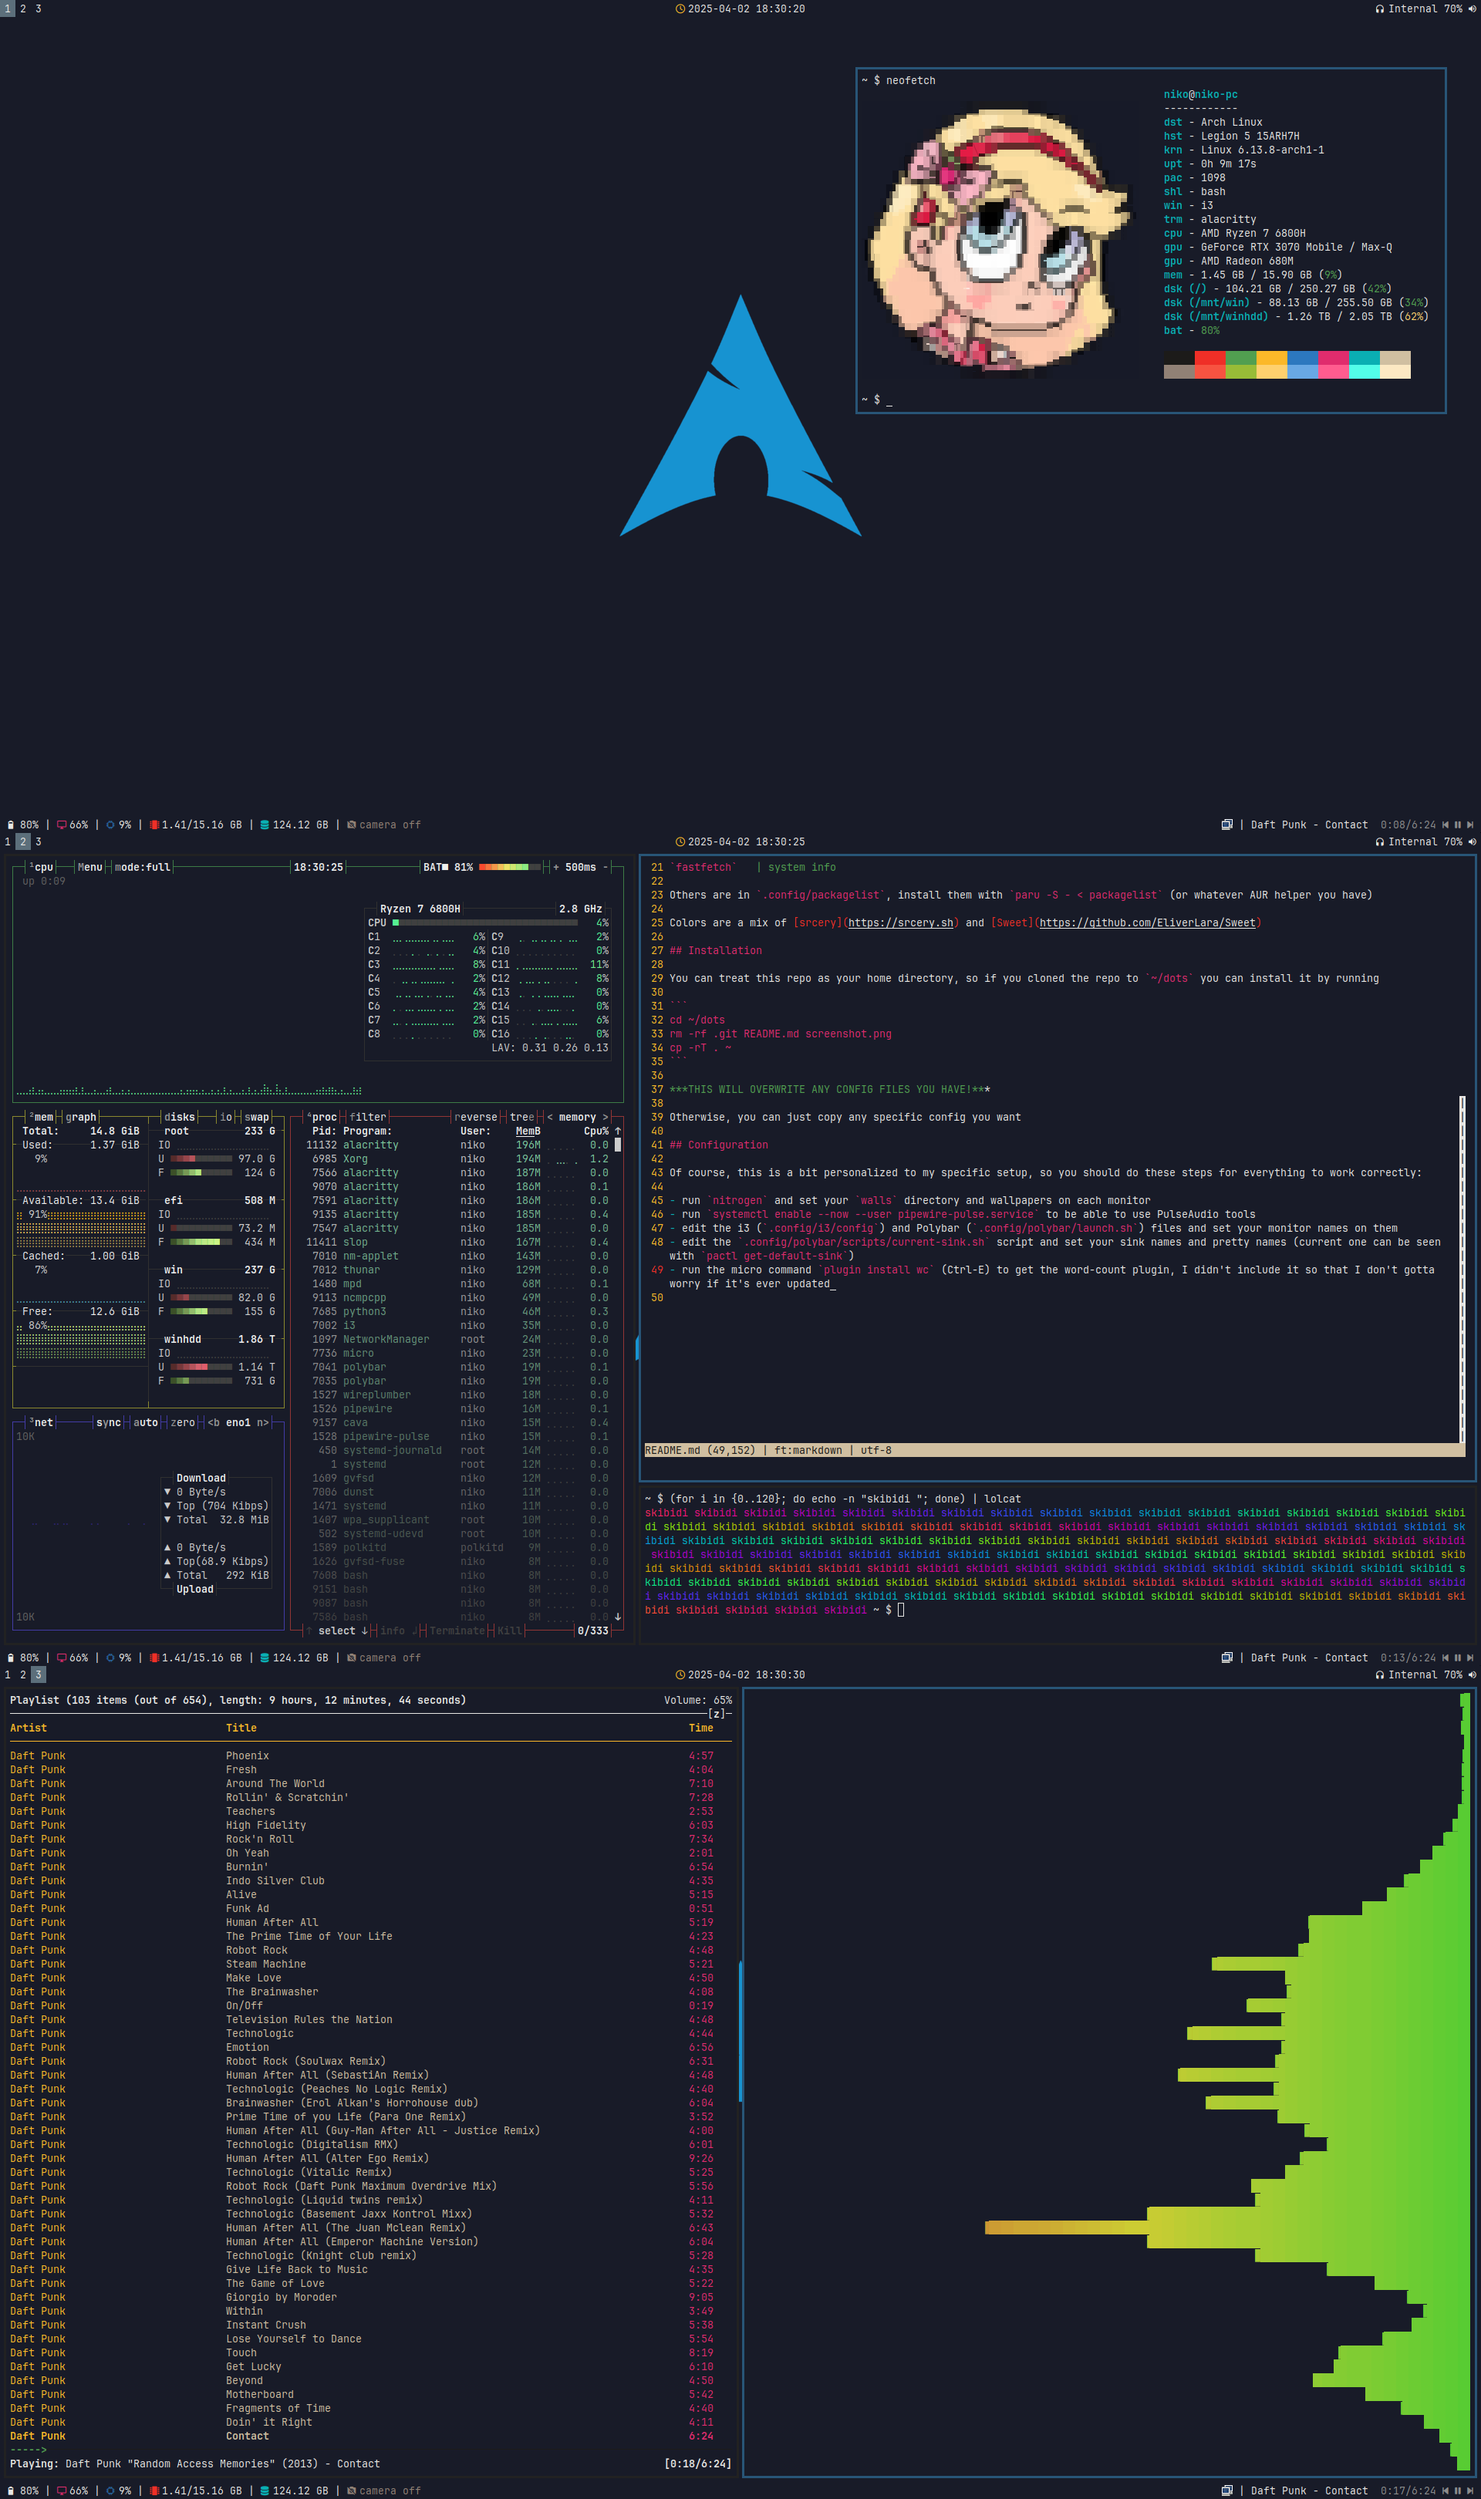
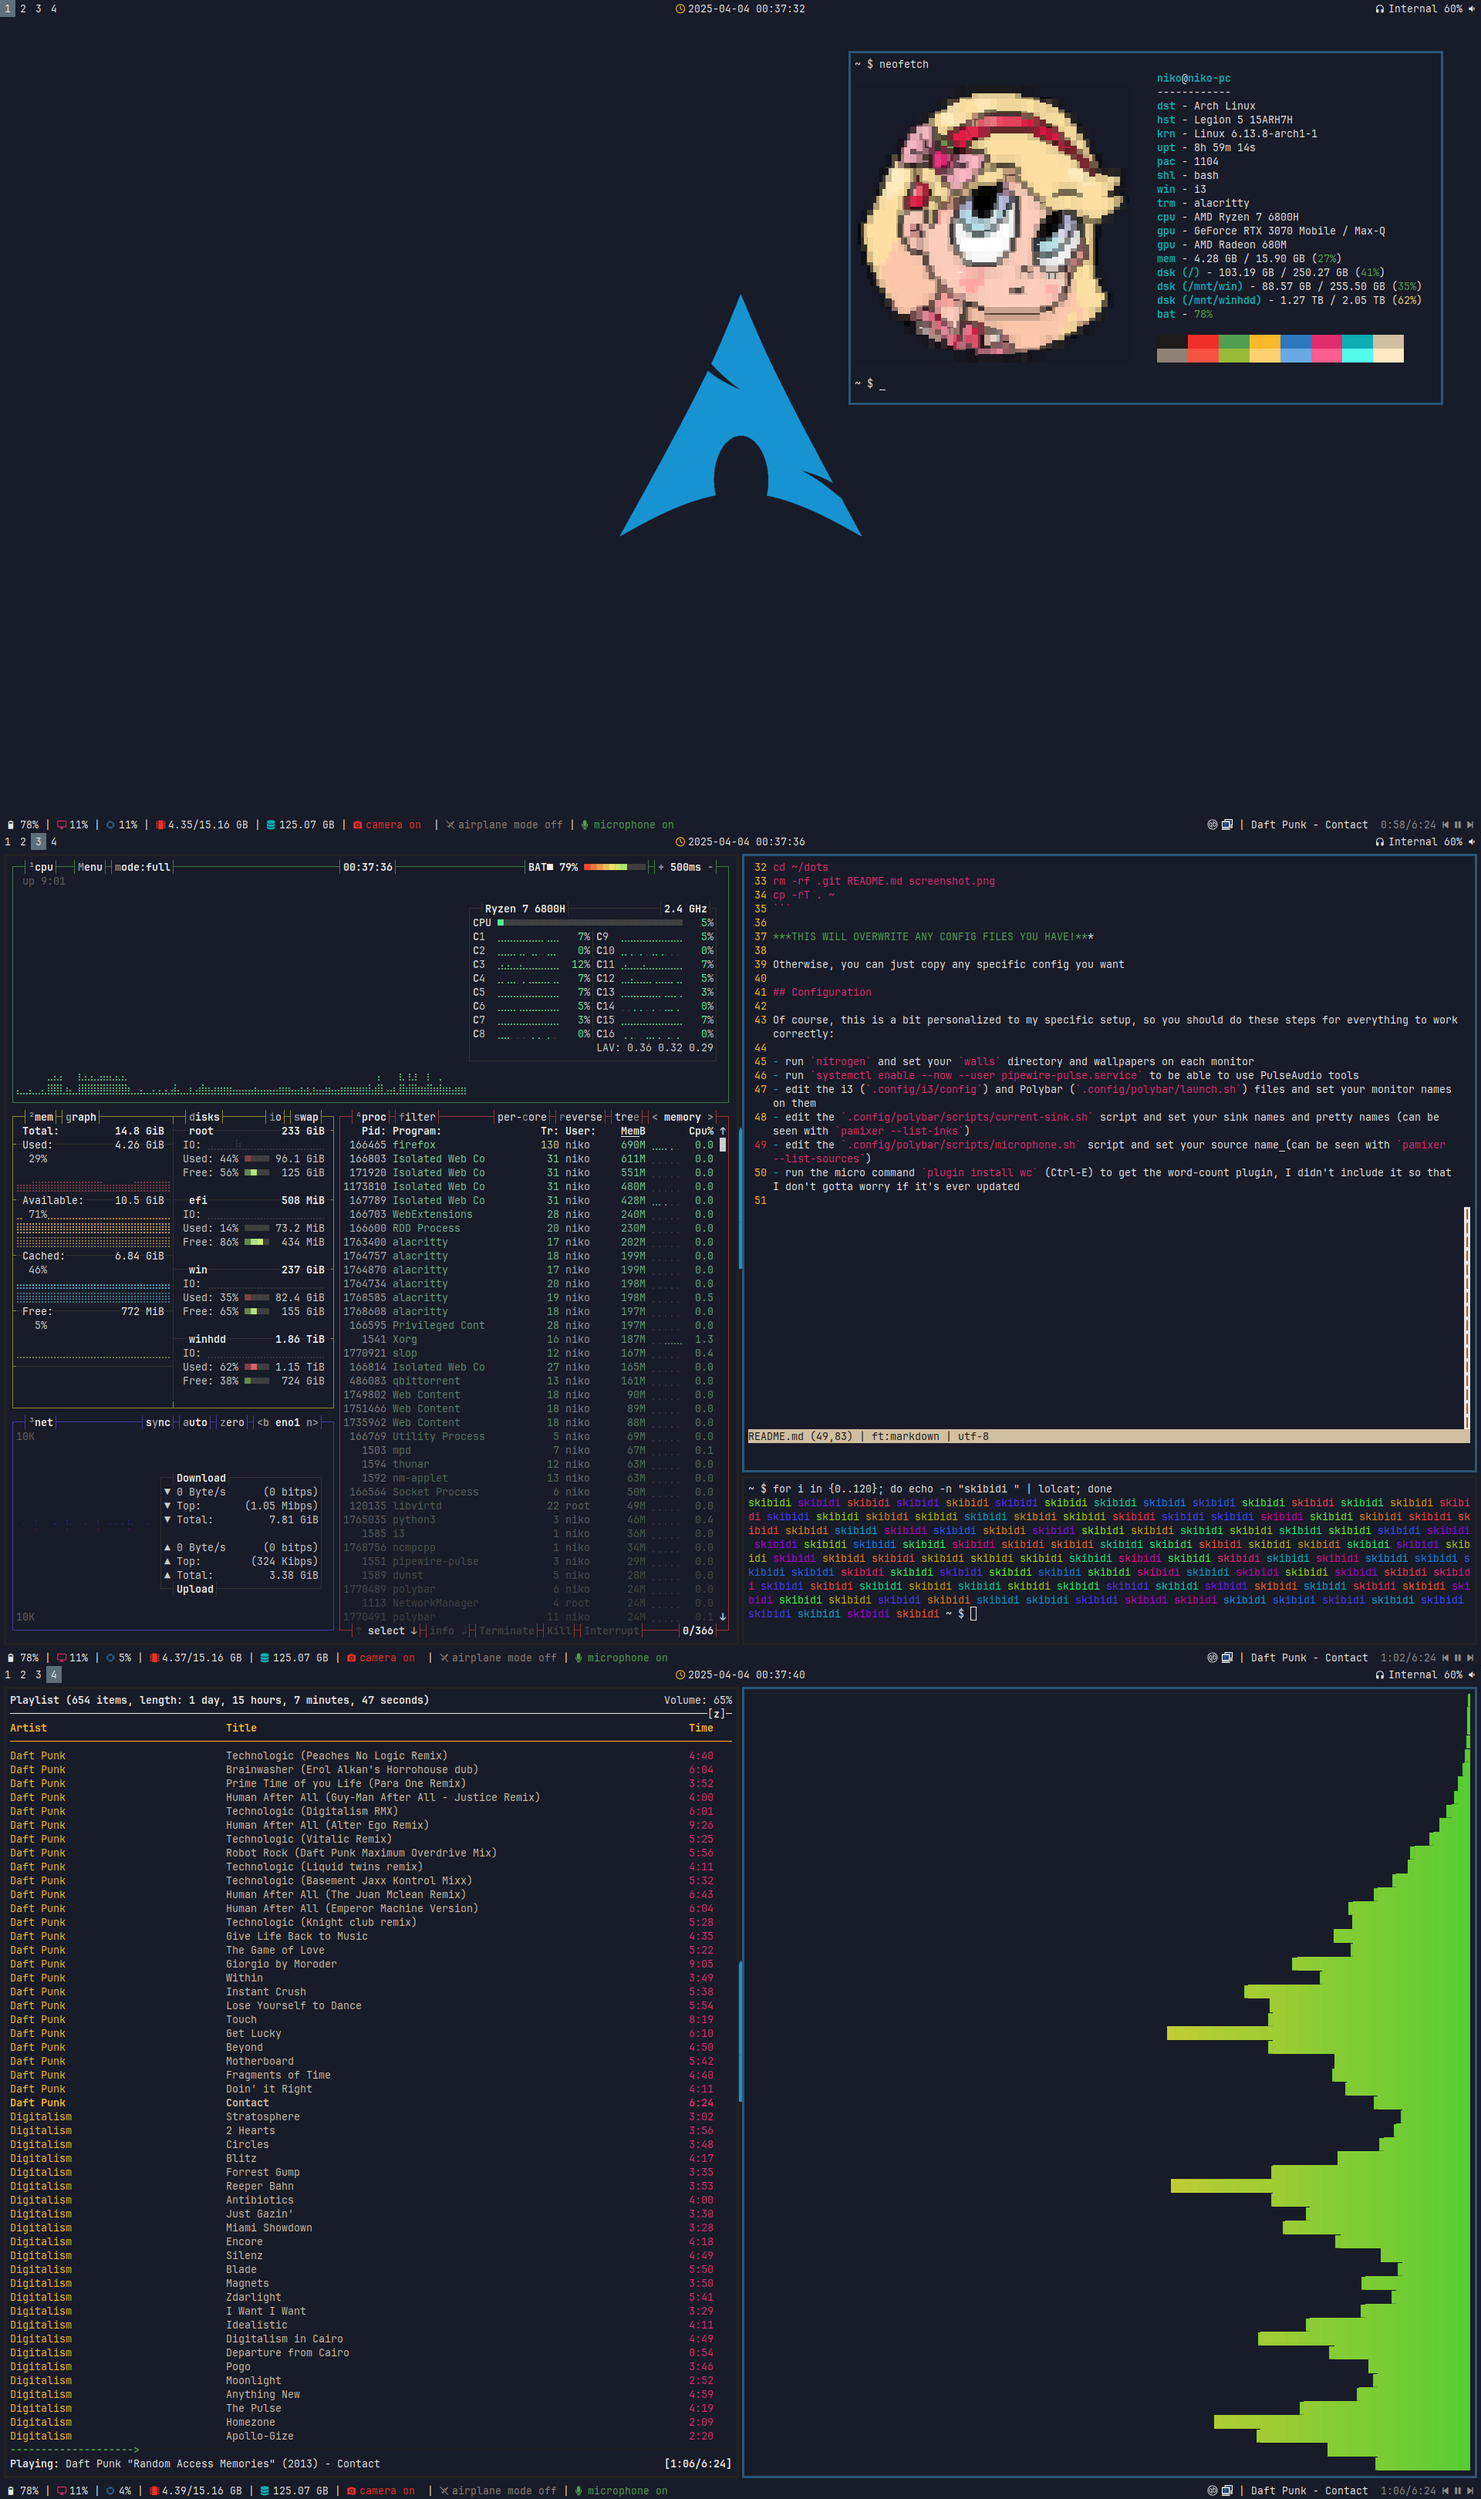
Extra cool lil modules I made for Polybar and stuff

diff --git a/README.md b/README.md
@@ -45,5 +45,6 @@ Of course, this is a bit personalized to my specific setup, so you should do the
 - run `nitrogen` and set your `walls` directory and wallpapers on each monitor
 - run `systemctl enable --now --user pipewire-pulse.service` to be able to use PulseAudio tools
 - edit the i3 (`.config/i3/config`) and Polybar (`.config/polybar/launch.sh`) files and set your monitor names on them
-- edit the `.config/polybar/scripts/current-sink.sh` script and set your sink names and pretty names (current one can be seen with `pactl get-default-sink`)
+- edit the `.config/polybar/scripts/current-sink.sh` script and set your sink names and pretty names (can be seen with `pamixer --list-inks`)
+- edit the `.config/polybar/scripts/microphone.sh` script and set your source name (can be seen with `pamixer --list-sources`)
 - run the micro command `plugin install wc` (Ctrl-E) to get the word-count plugin, I didn't include it so that I don't gotta worry if it's ever updated
